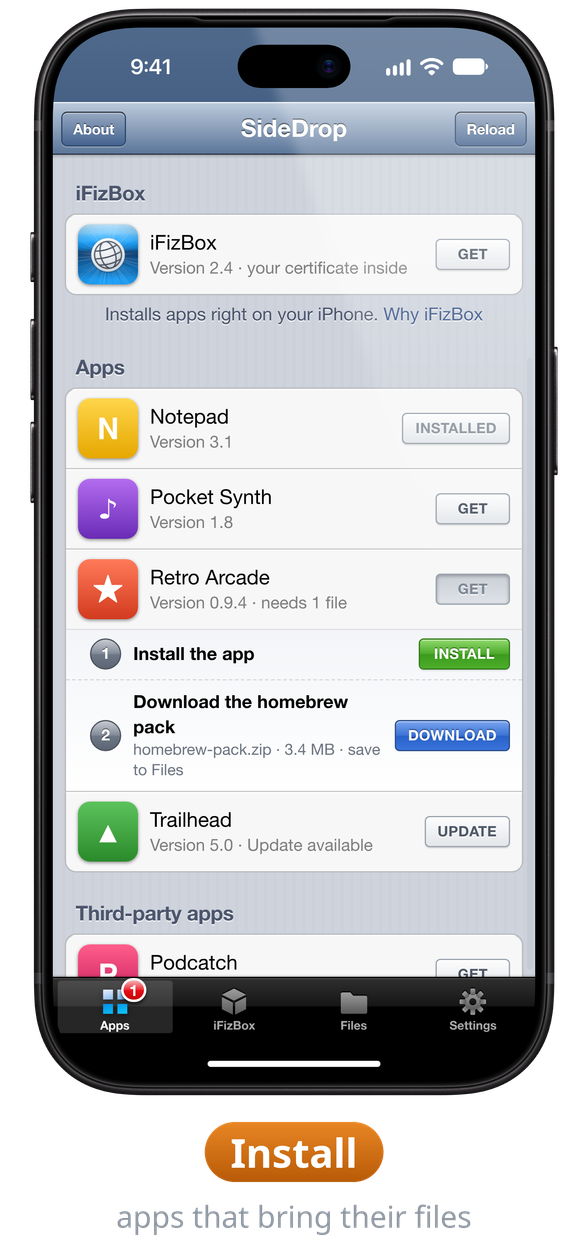
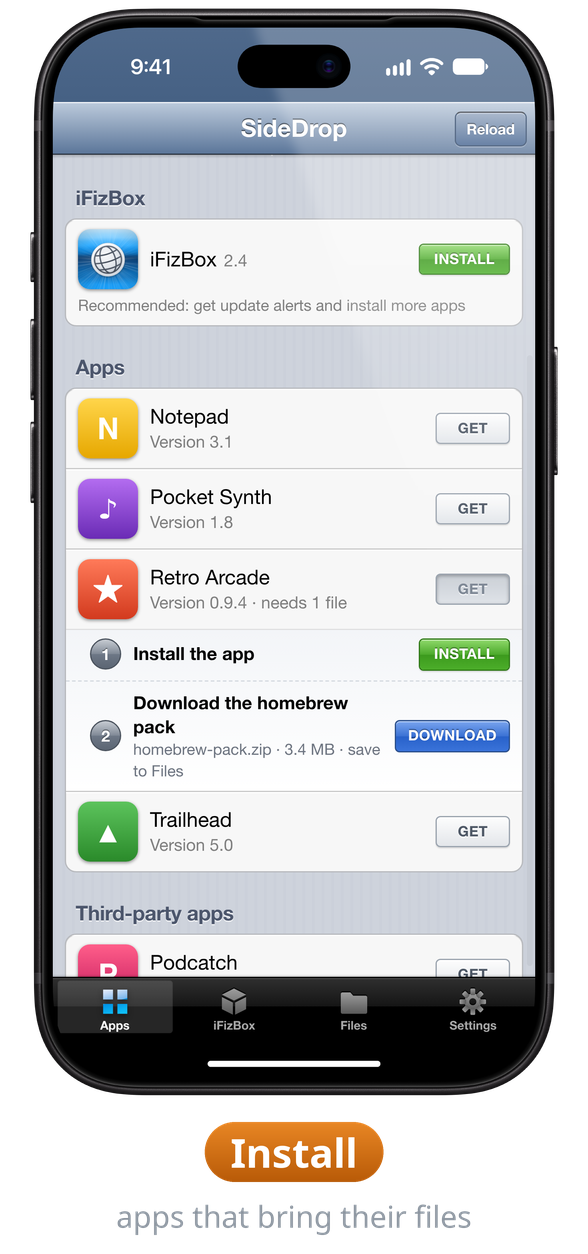
T1 wip: readme_shots after C2

diff --git a/docs/readme_shots.py b/docs/readme_shots.py
@@ -36,7 +36,7 @@ SAFE = {"top": 62, "bottom": 34, "left": 0, "right": 0}
 SCALE = 0.4  # of the 3x bezel: sharp at the README's ~200 px per phone on a 2x screen
 PAD = 24
 LABELS = {  # name: (the label's pill, the line under it), drawn under the phone (crops get none)
-    "apps": ("Apps", "your apps and their updates"),
+    "apps": ("Apps", "every app, one tap to install"),
     "install": ("Install", "apps that bring their files"), "settings": ("Settings", "this iPhone's status"),
     "manage": ("Manage", "the admin's menu"), "iphones": ("iPhones", "switch one off any time"),
     "signing": ("Signing", "certificate and API key"), "passwords": ("Passwords", "change who gets in"),
@@ -306,7 +306,6 @@ def serve():
 def browse(p):
     browser = p.chromium.launch(executable_path=os.environ.get("CHROMIUM", "/usr/bin/chromium"))
     ctx = browser.new_context(**IPHONE)
-    ctx.add_init_script("try{localStorage.pushAsked=1}catch(e){}")  # no notifications prompt over the shots
     pg = ctx.new_page()
     ctx.new_cdp_session(pg).send("Emulation.setSafeAreaInsetsOverride", {"insets": SAFE})
     return browser, pg
@@ -445,8 +444,7 @@ t = time.time()
 A.save_json(A.INVITES, {"demoUsedInvite0001": {"name": "Sam", "made": t - 3 * 86400, "exp": t + 4 * 86400, "udid": DEVICES[3]["attributes"]["udid"],
                                               "device": "iPhone 15", "used": t - 2 * 86400},
                         "demoExpiredInvite01": {"name": "Riley", "made": t - 10 * 86400, "exp": t - 3 * 86400}})
-# the demo iPhone: installed an older Trailhead (so its Apps row shows an update), seen today, through the first-install splash
-A.save_json(A.INSTALLED, {UDID: {"Notepad": "3.1/3.1", "Trailhead": "4.2/4.2"}})
+# the demo iPhone: seen today, through the first-install splash
 A.save_json(A.SEEN, {UDID: time.time() - 3600, DEVICES[1]["attributes"]["udid"]: time.time() - 2 * 86400,
                      DEVICES[3]["attributes"]["udid"]: time.time() - 5 * 3600})
 A.save_json(A.FIRST_RUN, {UDID: time.time()})
@@ -468,7 +466,6 @@ with sync_playwright() as p:
     pg.goto(f"{BASE}/?password=demo-admin-pass")  # the admin's sign-in, so Settings shows Manage
     pg.goto(f"{BASE}/?enrolled={A.device_token(UDID)}")  # the 301 after the profile install: sets the device cookie
     pg.goto(f"{BASE}/#apps")
-    pg.evaluate("scr.scrollTop+=document.querySelector('#t-apps .row.up').getBoundingClientRect().top-520")  # Trailhead's update in view
     shot(pg, raw, "apps")
     pg.click("button.get[data-app=RetroArcade]")  # an app with a file: GET opens its install steps
     pg.evaluate("scr.scrollTop+=document.querySelector('button.get[data-app=RetroArcade]').getBoundingClientRect().top-330")

diff --git a/journal/2026-11-20-t1-readme-shots-after-c2/README.md b/journal/2026-11-20-t1-readme-shots-after-c2/README.md
@@ -1,0 +1,23 @@
+# T1 docs/readme_shots.py after C2
+
+C2 removed install tracking, update rows and web push, so `docs/readme_shots.py` crashed on `A.INSTALLED` and would
+then have failed on the `#t-apps .row.up` scroll.
+
+What changed in `docs/readme_shots.py`:
+- dropped the `A.INSTALLED` seed (the demo iPhone now only gets SEEN, FIRST_RUN and its product);
+- dropped the scroll to Trailhead's update row: the Apps shot is the top of the tab (welcome card, iFizBox card,
+  the first apps with GET);
+- dropped the `localStorage.pushAsked` init script (no notifications prompt exists any more);
+- recaptioned apps.png "every app, one tap to install" (was "your apps and their updates").
+
+Ran the script with the iOS 27 kit from ~/repos/iFizBox and /usr/bin/chromium: all of docs/img was rewritten. apps.png
+now shows only GET / INSTALL buttons, no UPDATE row or badge (looked at it). install.png, settings.png, manage.png,
+invites.png and crop-signing.png also changed bytes: they follow the current app and today's dates (the
+invite link is random each run); looked at install.png and settings.png, both fine. Kept them all, since they are what
+the script makes now.
+
+Nothing failed along the way.
+
+**Not verified**: manage.png, invites.png and crop-signing.png were not opened one by one after regenerating (only
+byte changes seen; same script, no code touching them changed). README.md's alt texts were not edited (outside this
+task's files); they already say nothing of updates.
